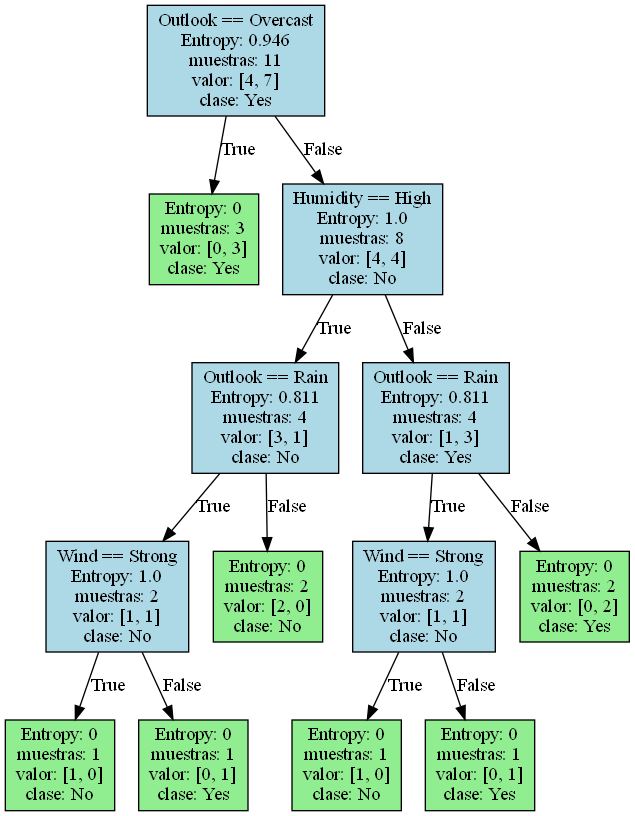
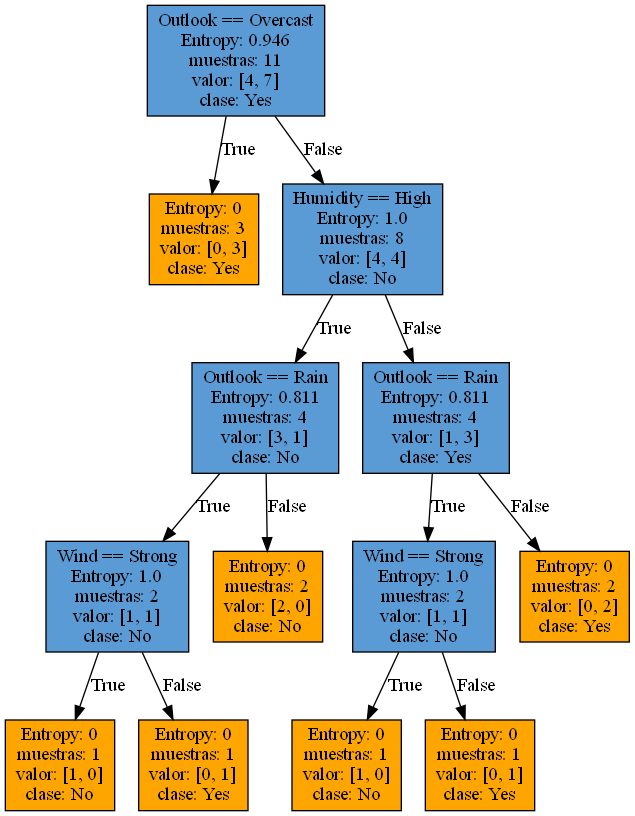
Graficador megabonito

diff --git a/Scikitty/view/TreeVisualizer.py b/Scikitty/view/TreeVisualizer.py
@@ -13,10 +13,10 @@ class TreeVisualizer:
         """
         if estructura_arbol['tipo'] == 'Hoja':
             nombre_nodo = f"hoja_{id(estructura_arbol)}"
-            color = 'lightgreen'
+            color = '#ffa500'  # Un naranja brillante y llamativo
         else:
             nombre_nodo = f"decision_{id(estructura_arbol)}"
-            color = 'lightblue'
+            color = '#5a9ad5'  # Un azul cielo claro
             self.graph_tree(estructura_arbol['izquierda'], 
                             padre=nombre_nodo, 
                             etiqueta_arista='True', 
@@ -38,16 +38,10 @@ class TreeVisualizer:
             Crea una etiqueta formateada con los detalles del nodo centrados y en líneas separadas.
             Divide el texto de 'regla' en líneas individuales y las muestra como etiquetas del nodo.
         """
-        # Extrae la cadena de regla y divide en líneas separadas.
         regla_completa = nodo.get('regla', "")
         lineas_regla = regla_completa.strip().split('\n')
-        
-        # Formatea cada línea para asegurarse de que no haya espacios extraños ni líneas vacías.
         lineas_limpas = [linea.strip() for linea in lineas_regla if linea.strip()]
-        
-        # Junta todas las líneas limpias en una única cadena, separando cada una por un salto de línea.
         etiqueta_nodo = "\n".join(lineas_limpas)
-        
         return etiqueta_nodo
 
     def get_graph(self, nombre_archivo='arbol', ver=True):
@@ -55,5 +49,3 @@ class TreeVisualizer:
             Renderiza el grafo como un archivo de imagen y muestra el grafo.
         """
         self.grafo.render(nombre_archivo, view=ver)
-
-# Crear y utilizar el visualizador sería igual que antes, proporcionando la estructura correcta del árbol.
